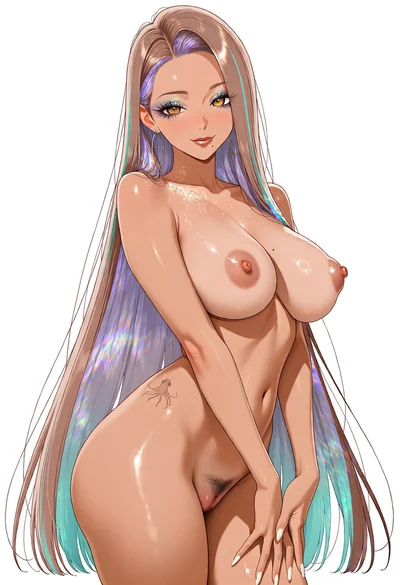
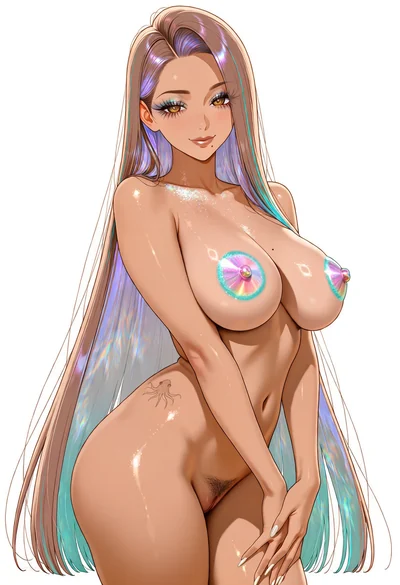
2.50: Cuttlefish: new unveil image
Iridescent, chromatic and reflective nipples, areolae rim and intimate colour.

diff --git a/js/ev-version.js b/js/ev-version.js
@@ -1,6 +1,6 @@
 /* Everspire: the version, shown beside the title in the studio's header. Bump EV_VERSION and EV_DATE before every push.
    (It lived in game-ui.js until the games were archived on 2026-11-17: branch archive/with-games.) */
-const EV_VERSION="2.49",EV_DATE="Nov 24, 2026";
+const EV_VERSION="2.50",EV_DATE="Nov 24, 2026";
 window.EVERSPIRE_VERSION=EV_VERSION;
 (function(){
   const put=()=>{const b=document.querySelector("header.top .brand");if(!b||b.querySelector(".ev-ver"))return;

diff --git a/index.html b/index.html
@@ -586,7 +586,7 @@ button,.btn,.chip,.opt,.rail-btn,.pick,.seg button,.tabs button,.swb,.start,labe
 <script src="js/blk-groups2.js?v=1097e6ea"></script>
 <script src="js/blk-ux.js?v=0d4eb564"></script>
 <script src="js/blk-intimate.js?v=72bb5f3e"></script>
-<script src="js/ev-version.js?v=ddf679fc"></script>
+<script src="js/ev-version.js?v=d29403a2"></script>
 <script src="js/part-22.js?v=9e08a57f"></script>
 </body>
 </html>
